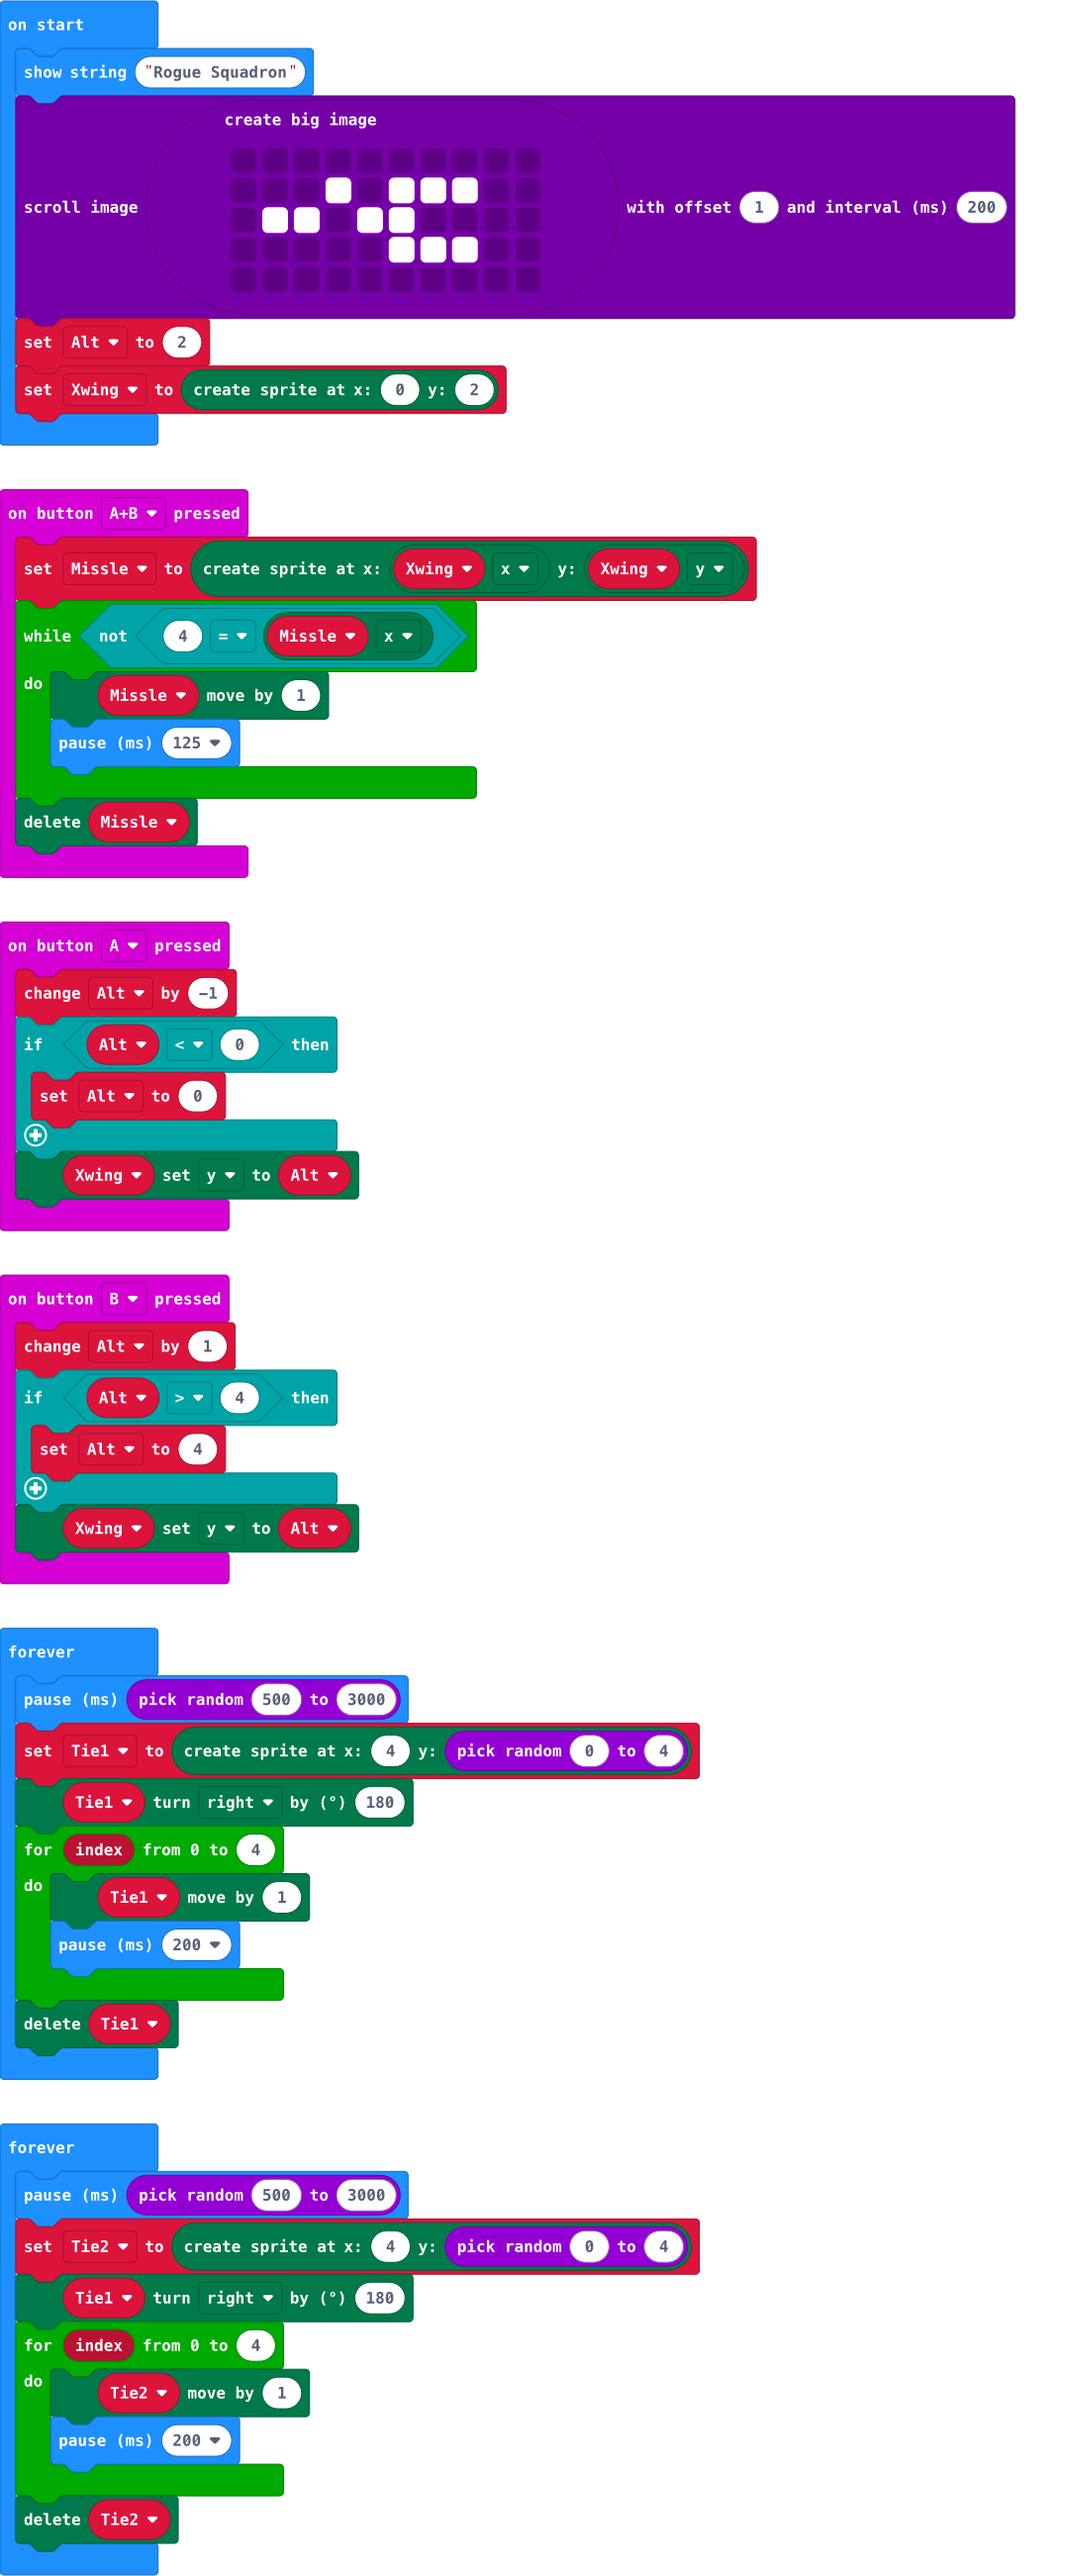
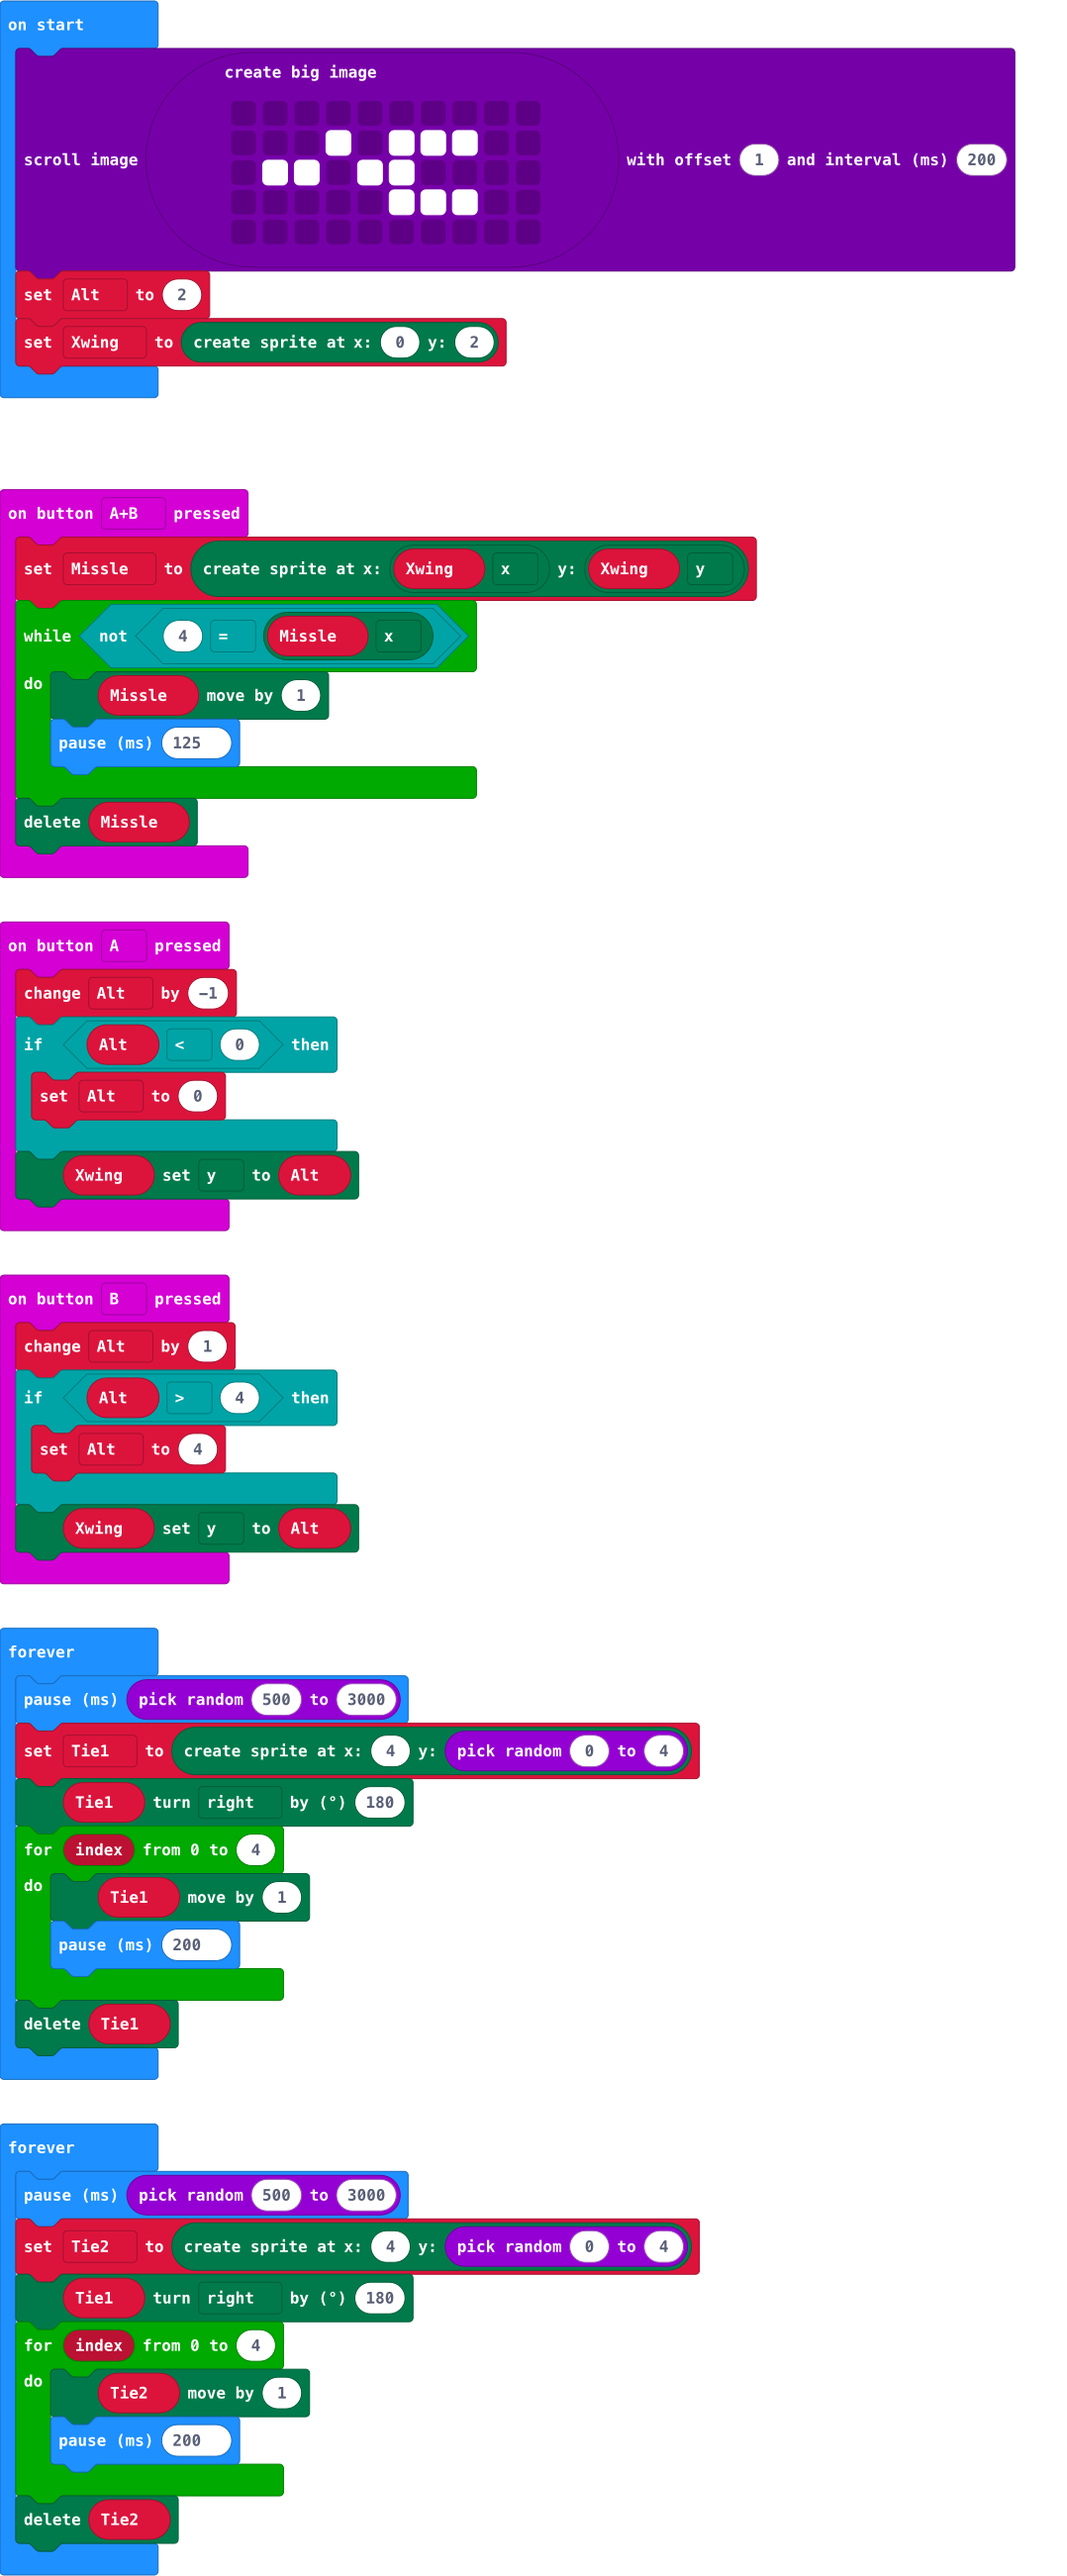
Update main.blocks, main.ts

Changed region(s): [[0.0, 0.0, 0.949, 0.1868]]

diff --git a/main.ts b/main.ts
@@ -25,7 +25,6 @@ let Tie1: game.LedSprite = null
 let Missle: game.LedSprite = null
 let Xwing: game.LedSprite = null
 let Alt = 0
-basic.showString("Rogue Squadron")
 images.createBigImage(`
     . . . . . . . . . .
     . . . # . # # # . .
